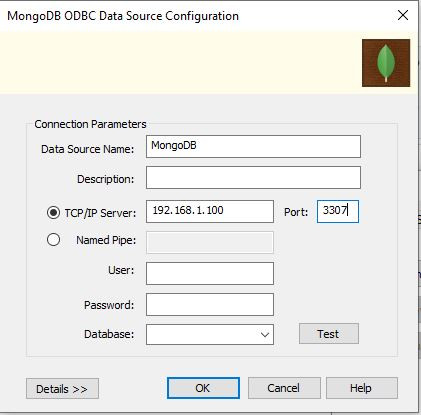
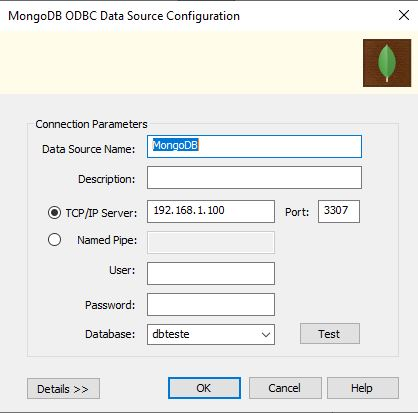
layout

diff --git a/README.md b/README.md
@@ -276,7 +276,7 @@ mongosqld --addr 0.0.0.0
 
 ![Screenshot](/images/img37.jpg)
 
-Na máquina cliente vamos configurar o ODBC, utilizar o Unicode driver.
+Na máquina cliente vamos configurar o ODBC, indicar o nome do database.
 
 ![Screenshot](/images/img38.jpg)
 
